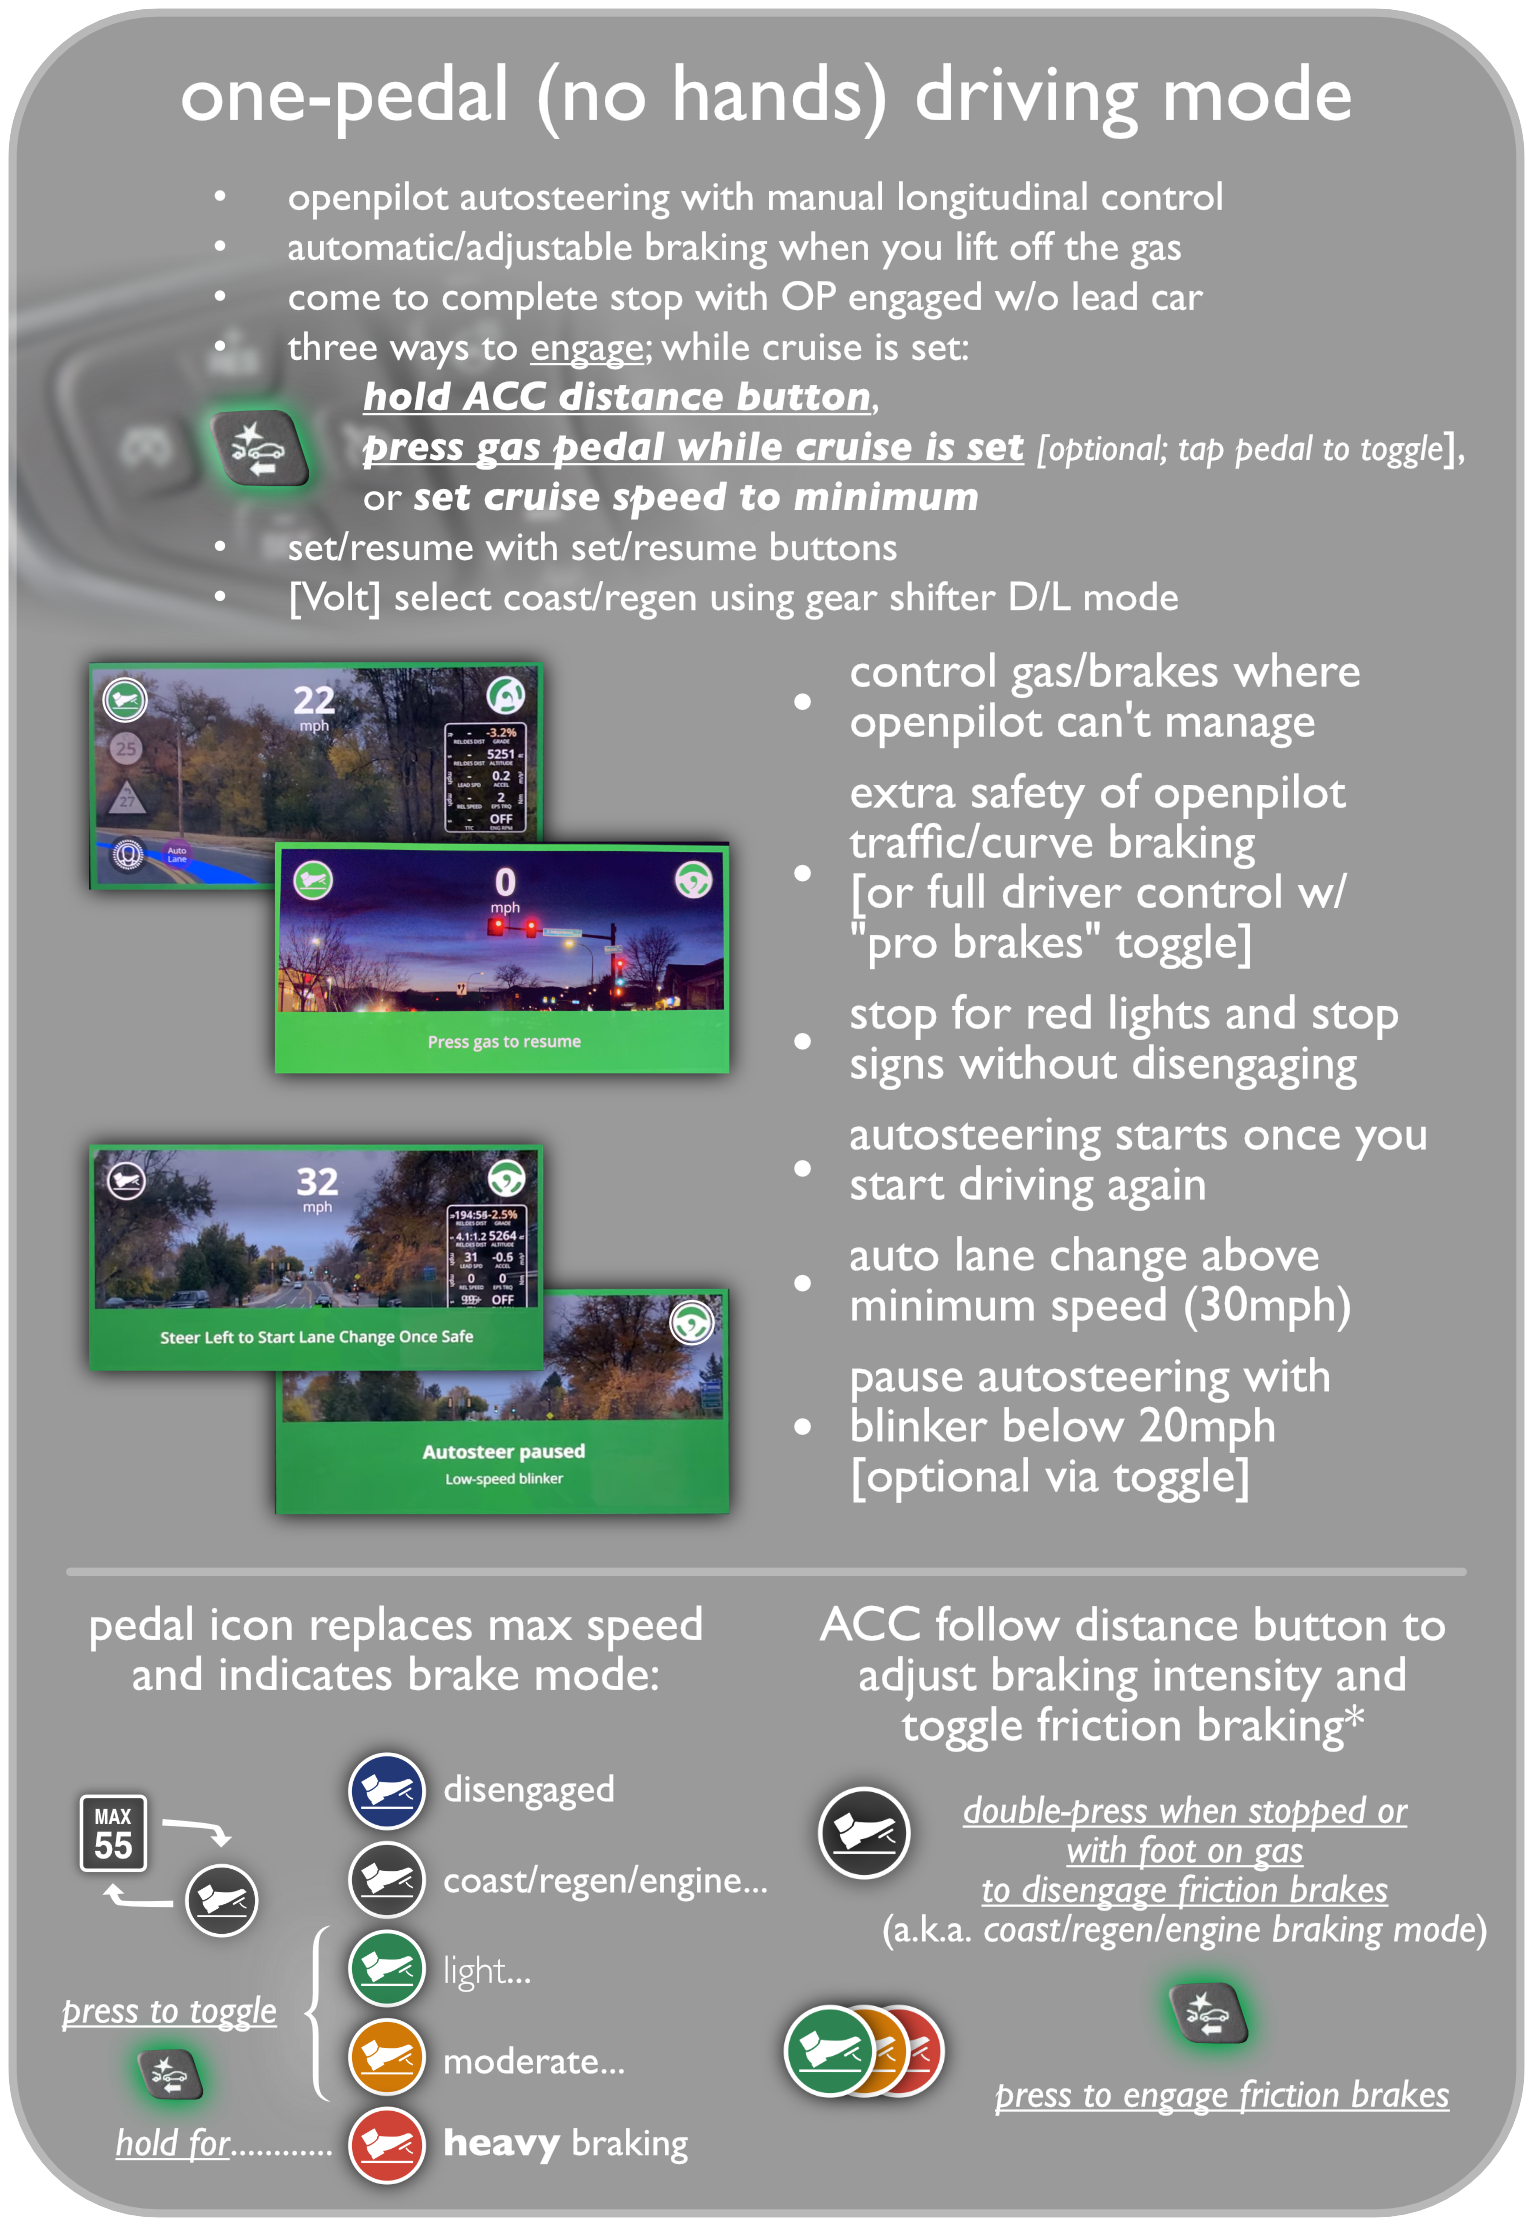
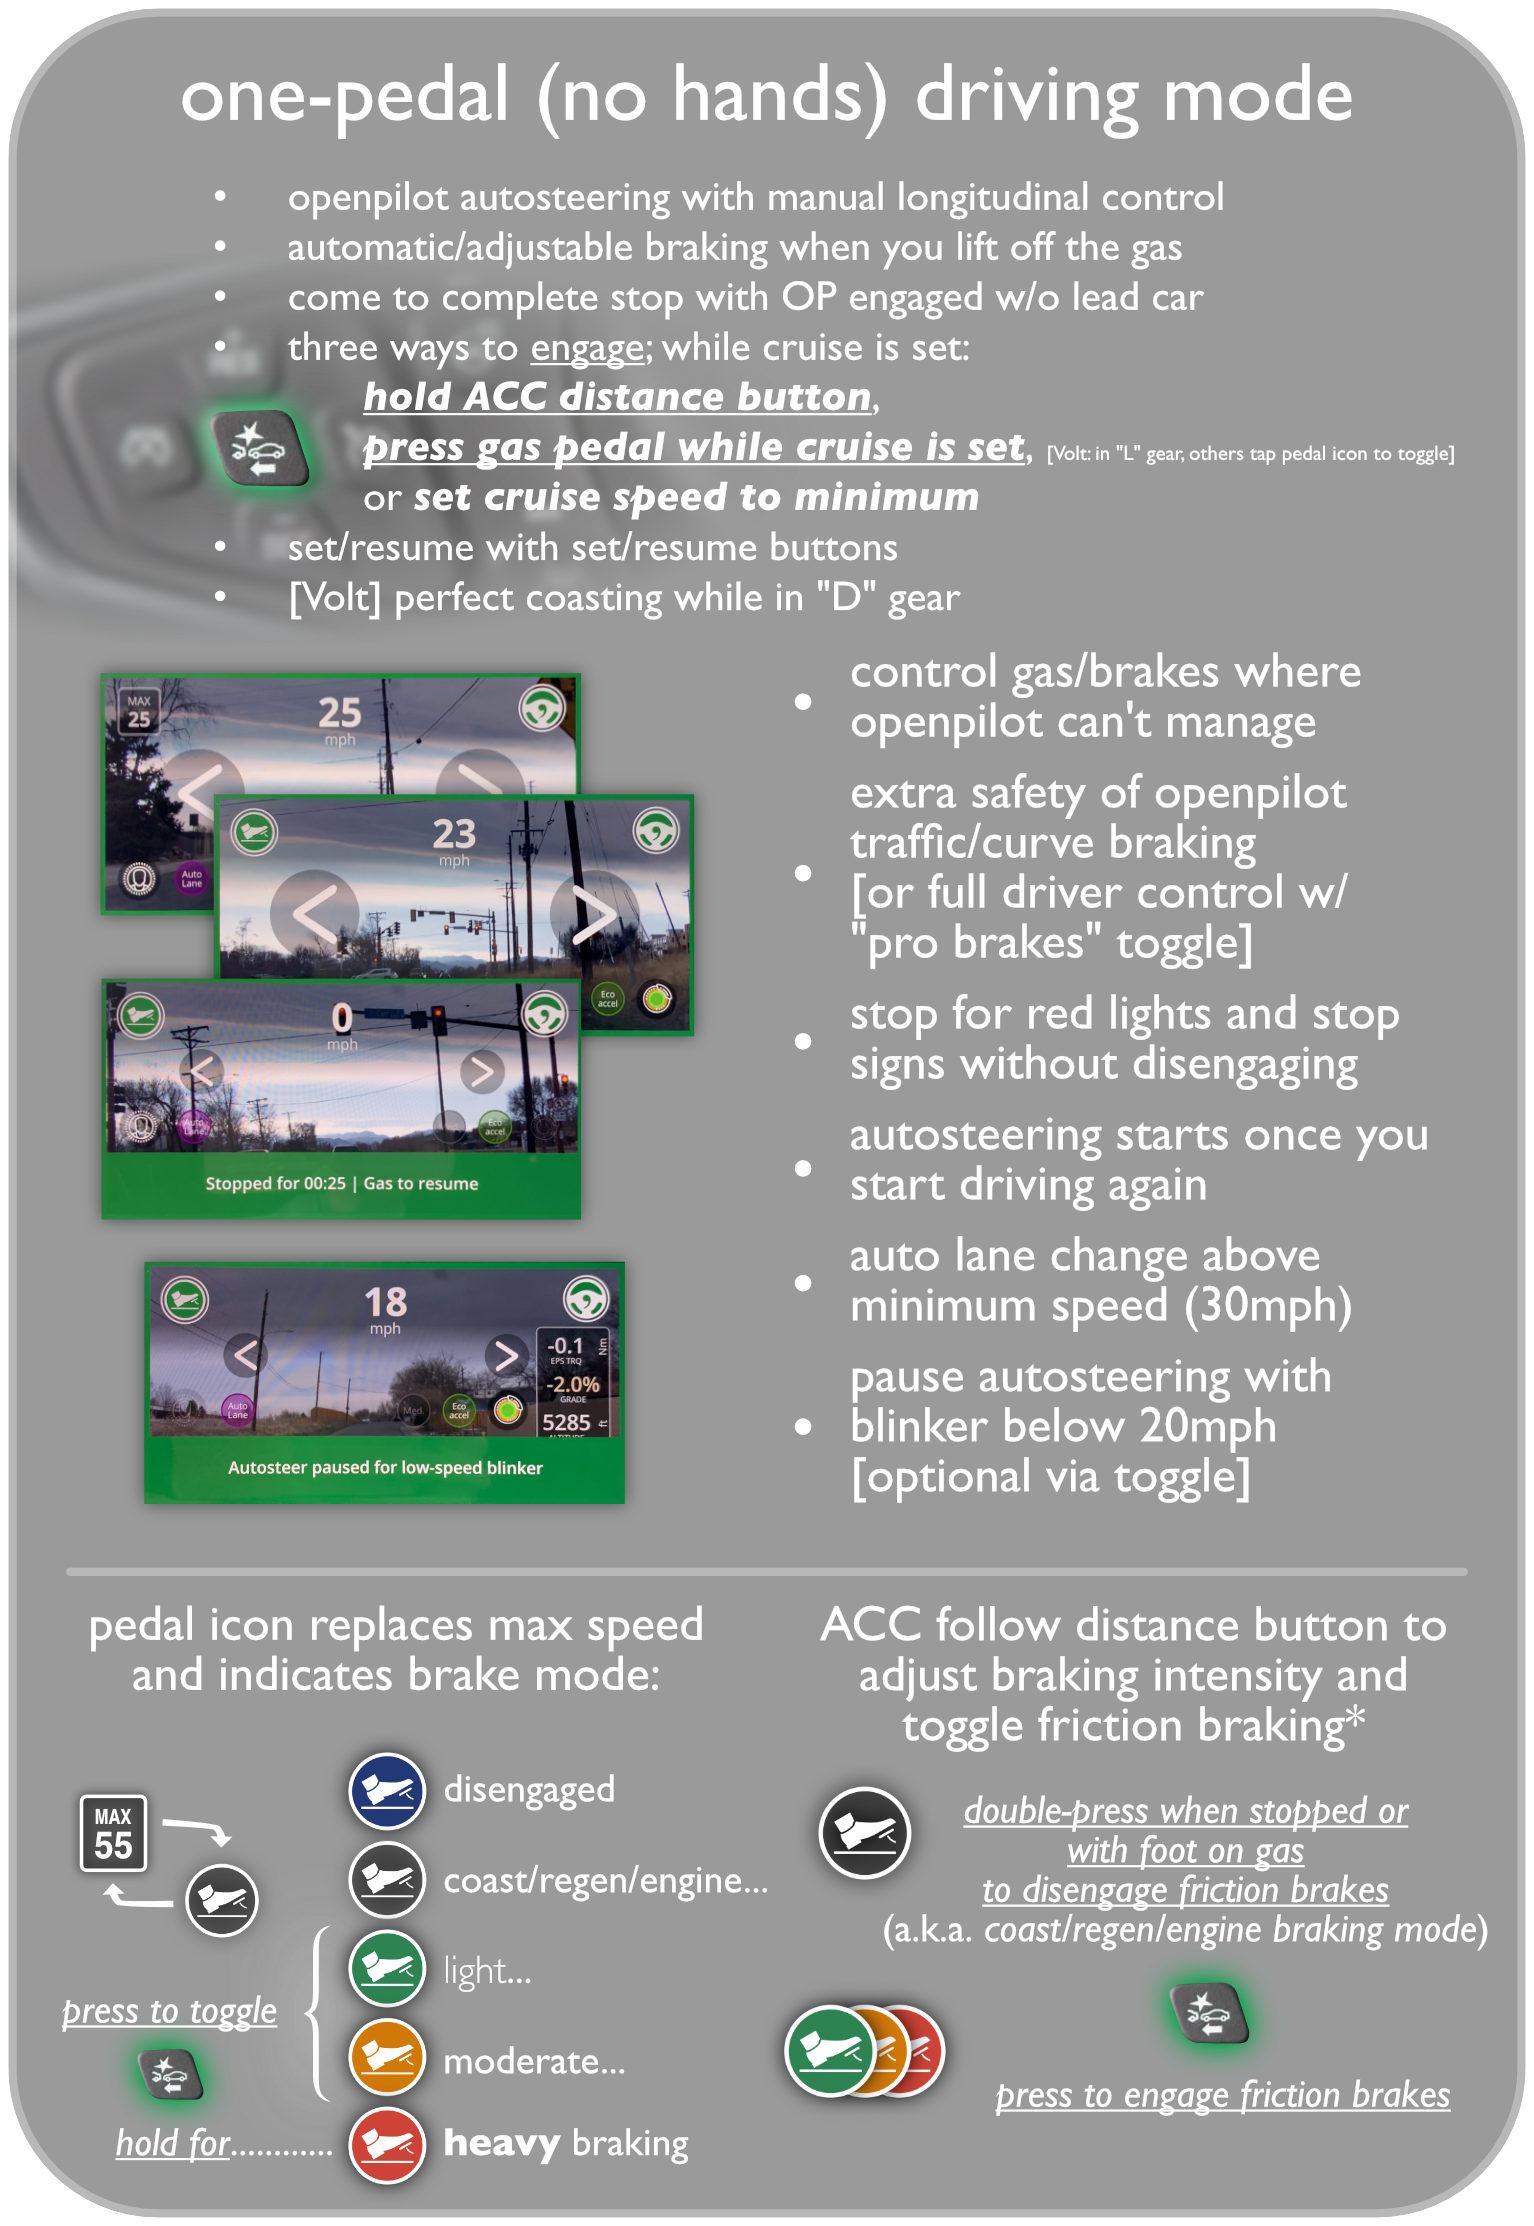
update readme and infographics

Changed region(s): [[0.0307, 0.248, 0.7665, 0.7129], [0.6745, 0.186, 0.9504, 0.217]]

diff --git a/README.md b/README.md
@@ -13,10 +13,13 @@
 
 ### Infographics
 ------
-![](https://user-images.githubusercontent.com/37757984/127420744-89ca219c-8f8e-46d3-bccf-c1cb53b81bb1.png)
-![](https://github.com/twilsonco/openpilot/blob/tw-0.8.9-dev/fork_image_onepedal.png?raw=true)
-![](https://github.com/twilsonco/openpilot/blob/tw-0.8.9-dev/fork_image_touchcontrols.png?raw=true)
-![](https://github.com/twilsonco/openpilot/blob/tw-0.8.9-dev/fork_image_misc.png?raw=true)
+![](https://github.com/twilsonco/openpilot/blob/tw-0.8.9/fork_image_touchcontrols.png?raw=true)
+![](https://github.com/twilsonco/openpilot/blob/tw-0.8.9/fork_image_onepedal.png?raw=true)
+![](https://github.com/twilsonco/openpilot/blob/tw-0.8.9/fork_image_coasting.png?raw=true)
+![](https://github.com/twilsonco/openpilot/blob/tw-0.8.9/fork_image_lane_position.png?raw=true)
+![](https://github.com/twilsonco/openpilot/blob/tw-0.8.9/fork_image_brake_indicator.png?raw=true)
+![](https://github.com/twilsonco/openpilot/blob/tw-0.8.9/fork_image_metrics.png?raw=true)
+![](https://github.com/twilsonco/openpilot/blob/tw-0.8.9/fork_image_misc.png?raw=true)
 
 ### Appreciate My Work?
 ------
@@ -55,6 +58,9 @@
 - [x] [Chevy Volt] Sigmoidal steering response (thanks qadmus)
 - [x] [GM] [✅] AutoHold (autohold brakes when stopped; ported from kegman)
 - [x] [GM] Adjustable follow "mode" using ACC distance button (ported from kegman, but smoother follow profiles)
+- [x] Adjustable lane position using onscreen buttons
+    * Tap buttons to change lane position for 15 seconds; double-tap to change for 10 minutes
+    * Tap again to go back to center position
 - [x] [GM] [✅] Dynamic follow mode
 - [x] [GM] Toggle steering with LKAS button (wheel color changes to indicate disengagement)
 - [x] [GM] One-pedal driving a.k.a. autosteering only a.k.a. toggle longitudinal control: using regen (volt) and/or light/moderate/heavy braking, control OP all the way to a stop, without a lead, and without disengaging, with just the gas pedal (see below) (application of friction brakes originally suggested by cybertronicify — 10/06/2021)
@@ -128,6 +134,7 @@
 -----
 
 - [ ] Stop-and-go for 2018 Volt
+- [ ] Grey panda support
 - [ ] Chevy Bolt support
 - [ ] Record screen button
 - [ ] Auto engage parking brake
@@ -187,6 +194,28 @@ Then, `sudo reboot`
 
 This fork will auto-update while your device has internet access, and changes are automatically applied the next time the device restarts.
 If you're device stays connected to your car all the time, you'll be presented with a message to update when your car is off.
+
+### Tuning
+------
+
+* Remember to make small adjustments to 1 value at a time and then test.
+* Use [PlotJugger](https://github.com/commaai/openpilot/tree/master/tools/plotjuggler) to make sure you are going in the right direction.
+
+#### Lateral Tuning
+------
+**Note**: All of these parameters interact with each other so finding the balance is a bit experimental.
+
+* **Kp too high** - The vehicle overshoots and undershoots center.
+* **Kp too low** - The vehicle doesn't turn enough.
+
+* **Ki too high** - The vehicle gets to center without oscillations, but it takes too long to center. If you hit a bump or give the wheel a quick nudge, it should oscillate 3 - 5 times before coming to steady-state. If the wheel oscillates forever (critically damped), then your Kp or Ki or both are too high.
+* **Ki too low** - The vehicle oscillates trying to reach the center.
+
+* **steerRatio too high** - The vehicle ping pongs on straights and turns. If you're on a turn and the wheel is oversteering and then correcting, steerRatio is too high, and it's fighting with Kp and Ki (which you don't want) - although in the past it has been observed having an oscillating oversteering tune which could do tighter turns, but the turns weren't pleasant.
+
+* **steerRatio too low** - The vehicle doesn't turn enough on curves.
+
+* **Kf** - Lower this if your car oscillates and you've done everything else. It can be lowered to 0.
 
 ---
 
